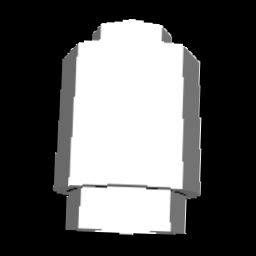
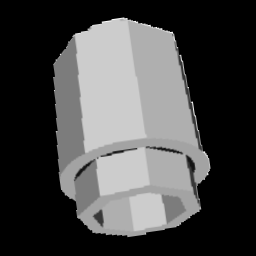
added random color variation step to synthetic_bricks.py

diff --git a/WebGLdraw/synthetic_bricks.py b/WebGLdraw/synthetic_bricks.py
@@ -1,6 +1,7 @@
 import os
 import math
 import random
+import colorsys
 import torch
 from torch.utils.data import Dataset
 from pytorch3d.io import load_objs_as_meshes
@@ -18,9 +19,9 @@ from torchvision.transforms import functional as F
 
 class SyntheticBrickDataset(Dataset):
     """
-    Grayscale renders with headlight illumination for consistent 3D shading:
-      - White piece, black background
-      - Directional light aligned with camera view (headlight)
+    Grayscale renders with optional color variation for robustness:
+      - White or randomly colored piece on a black background
+      - Headlight directional illumination aligned with camera
       - Random camera azimuth [0–360°], elevation [15–75°]
       - Crop to object, pad to square, resize without distortion
       - Mild contrast boost + slight 2D rotations/flips
@@ -64,15 +65,14 @@ class SyntheticBrickDataset(Dataset):
         self.radii = []
         for verts in self.meshes.verts_list():
             center = verts.mean(0, keepdim=True)
-            radius = (verts - center).norm(dim=1).max().item()
-            self.radii.append(radius)
+            self.radii.append((verts - center).norm(dim=1).max().item())
 
-        # 4) Assign white textures
+        # 4) Assign initial white textures
         feats = [torch.ones((v.shape[0], 3), device=self.device)
                  for v in self.meshes.verts_list()]
         self.meshes.textures = TexturesVertex(verts_features=feats)
 
-        # 5) Renderer placeholder
+        # 5) Renderer placeholder setup
         base_cam = FoVPerspectiveCameras(device=self.device, fov=self.fov)
         rast_settings = RasterizationSettings(
             image_size=self.render_size,
@@ -83,10 +83,10 @@ class SyntheticBrickDataset(Dataset):
         )
         default_lights = DirectionalLights(
             device=self.device,
-            direction=[[0.0, 0.0, -1.0]],  # will override per sample
-            ambient_color=[[0.05, 0.05, 0.05]],
-            diffuse_color=[[1.0, 1.0, 1.0]],
-            specular_color=[[0.5, 0.5, 0.5]]
+            direction=[[0.0, 0.0, -1.0]],  # headlight direction override per sample
+            ambient_color=[[0.1, 0.1, 0.1]],
+            diffuse_color=[[0.8, 0.8, 0.8]],
+            specular_color=[[0.3, 0.3, 0.3]]
         )
         self.renderer = MeshRenderer(
             rasterizer=MeshRasterizer(cameras=base_cam, raster_settings=rast_settings),
@@ -97,12 +97,23 @@ class SyntheticBrickDataset(Dataset):
         return len(self.meshes)
 
     def __getitem__(self, idx):
+        # 1) Select the mesh and optionally apply color variation
         mesh = self.meshes[idx]
-        radius = self.radii[idx]
+        # 20% chance to tint the piece randomly
+        if random.random() < 0.75:
+            h = random.random()
+            s = random.uniform(0.5, 1.0)
+            v = random.uniform(0.6, 1.0)
+            r, g, b = colorsys.hsv_to_rgb(h, s, v)
+            verts = mesh.verts_list()[0]
+            color_feat = torch.tensor([r, g, b], device=self.device, dtype=torch.float32)
+            feats = color_feat.unsqueeze(0).repeat(verts.shape[0], 1)
+            mesh.textures = TexturesVertex(verts_features=[feats])
 
-        # 1) Random camera pose
+        # 2) Sample random camera pose
+        radius = self.radii[idx]
         azim = random.uniform(0, 360)
-        elev = random.uniform(-75, 75)  # allow views from underside, sides, and top
+        elev = random.uniform(15, 75)
         half_fov = math.radians(self.fov / 2)
         dist = (radius * self.camera_scale) / math.tan(half_fov)
         R, T = look_at_view_transform(dist, elev, azim, device=self.device)
@@ -110,12 +121,9 @@ class SyntheticBrickDataset(Dataset):
         self.renderer.rasterizer.cameras = cam
         self.renderer.shader.cameras    = cam
 
-        # 2) Headlight: light direction aligned with camera view
-        # Compute camera-to-world rotation
-        cam_to_world = R[0].T  # (3,3)
-        # In camera coords, headlight comes along -Z
-        dir_cam = torch.tensor([0.0, 0.0, -1.0], device=self.device).view(1,3)
-        # Transform to world coords
+        # 3) Headlight: align directional light with camera forward vector
+        cam_to_world = R[0].T  # invert rotation
+        dir_cam = torch.tensor([0.0, 0.0, -1.0], device=self.device, dtype=torch.float32).view(1, 3)
         dir_world = (dir_cam @ cam_to_world).cpu().tolist()
         lights = DirectionalLights(
             device=self.device,
@@ -126,19 +134,19 @@ class SyntheticBrickDataset(Dataset):
         )
         self.renderer.shader.lights = lights
 
-        # 3) Render
+        # 4) Render RGB + mask
         out = self.renderer(mesh, R=R, T=T)
-        rgb  = out[0, ..., :3]
+        rgb = out[0, ..., :3]
         frags = self.renderer.rasterizer(mesh, R=R, T=T)
         mask = (frags.pix_to_face[..., 0] >= 0).squeeze(0)
 
-        # 4) Convert to tensors
-        image = rgb.permute(2, 0, 1)      # (3, H, W)
-        mask_t = mask.to(torch.uint8)    # (H, W)
+        # 5) Convert to tensors
+        image = rgb.permute(2, 0, 1)    # (3, H, W)
+        mask = mask.to(torch.uint8)     # (H, W)
 
-        # 5) Crop & pad to square
-        H, W = mask_t.shape
-        ys, xs = torch.nonzero(mask_t, as_tuple=True)
+        # 6) Crop & pad to square
+        H, W = mask.shape
+        ys, xs = torch.nonzero(mask, as_tuple=True)
         if ys.numel():
             m = 16
             y0 = max(0, ys.min().item() - m)
@@ -148,7 +156,7 @@ class SyntheticBrickDataset(Dataset):
         else:
             y0, y1, x0, x1 = 0, 1, 0, 1
         crop_img = F.crop(image, y0, x0, y1 - y0, x1 - x0)
-        crop_mask = F.crop(mask_t.unsqueeze(0), y0, x0, y1 - y0, x1 - x0).squeeze(0)
+        crop_mask = F.crop(mask.unsqueeze(0), y0, x0, y1 - y0, x1 - x0).squeeze(0)
         ch, cw = crop_img.shape[1:]
         if ch > cw:
             diff = ch - cw
@@ -159,25 +167,26 @@ class SyntheticBrickDataset(Dataset):
         crop_img = F.pad(crop_img, pad, fill=0)
         crop_mask = F.pad(crop_mask.unsqueeze(0), pad, fill=0).squeeze(0)
         image = F.resize(crop_img, [self.image_size, self.image_size], interpolation=F.InterpolationMode.BILINEAR)
-        mask  = F.resize(crop_mask.unsqueeze(0).float(), [self.image_size, self.image_size], interpolation=F.InterpolationMode.NEAREST)[0].to(torch.uint8)
+        mask = F.resize(crop_mask.unsqueeze(0).float(), [self.image_size, self.image_size], interpolation=F.InterpolationMode.NEAREST)[0].to(torch.uint8)
 
-        # 6) Black background
-        image = torch.where(mask.unsqueeze(0) == 1, image, torch.zeros_like(image))
+        # 7) Black background fill
+        bg = torch.zeros_like(image)
+        image = torch.where(mask.unsqueeze(0) == 1, image, bg)
 
-        # 7) Mild contrast boost
-        cvar = random.uniform(1.0, 1.5)
+        # 8) Mild contrast boost
+        cvar = random.uniform(1.0, 1.2)
         image = F.adjust_contrast(image, cvar).clamp(0, 1)
 
-        # 8) 2D rotation & flips
+        # 9) 2D rotations/flips
         rot = random.uniform(-10, 10)
         image = F.rotate(image, rot, interpolation=F.InterpolationMode.BILINEAR, fill=(0,0,0))
-        mask  = F.rotate(mask.unsqueeze(0), rot, interpolation=F.InterpolationMode.NEAREST, fill=0)[0].to(torch.uint8)
+        mask = F.rotate(mask.unsqueeze(0), rot, interpolation=F.InterpolationMode.NEAREST, fill=0)[0].to(torch.uint8)
         if random.random() < 0.5:
             image = F.hflip(image); mask = F.hflip(mask)
         if random.random() < 0.5:
             image = F.vflip(image); mask = F.vflip(mask)
 
-        # 9) Bounding box
+        # 10) Bounding box & target
         ys, xs = torch.nonzero(mask, as_tuple=True)
         if ys.numel():
             y0, y1 = ys.min().item(), ys.max().item() + 1
